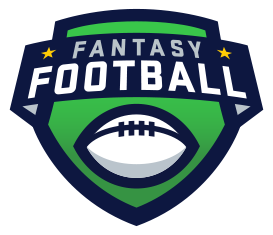
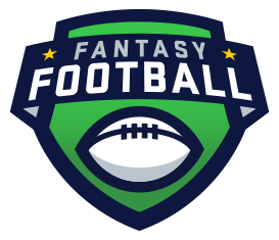
refined work section for all screen sizes.  Resized images to fit container

diff --git a/css/main.css b/css/main.css
@@ -37,11 +37,6 @@
     color: #6cc644;
 }
 
-.project-picture img {
-	width: 100%;
-}
-
-
 /* Classes: */
 
 .container {
@@ -79,5 +74,44 @@
 	text-align:center;
 	display: inline-block;
 }
+
+/* projects section stuff */
+.project-picture, .project-title,
+.project-description,.project-link {
+	transition: 0.3s ease-in-out;
+}
+
+.project-box{
+	height: 15em;
+	width: calc(33% - 2px);
+	border: 1px solid grey;
+	overflow:hidden;
+	display:inline-block;
+}
+
+.project-picture{
+	text-align:center;
+}
+
+.project-title {
+	text-align:center;
+	font-size: 2em;
+}
+
+.project-link {
+	text-align:center;
+}
+.project-link a {
+	color: black;
+}
+
+.project-box:hover .project-picture{
+	margin-top: -15em;
+}
+
+
+
+
+/* end projects section stuff */
 
 /*Id's: */

diff --git a/css/large-screen.css b/css/large-screen.css
@@ -51,38 +51,6 @@ label[for=nav-trigger]{
 	margin-left: 1em;
 }
 
-/* projects section stuff */
-.project-picture, .project-title,
-.project-description,.project-link {
-	transition: 0.3s ease-in-out;
-}
-
-.project-box{
-	height: 15em;
-	width: 33%;
-	border: 1px solid grey;
-	overflow:hidden;
-	display:inline-block;
-}
-
-.project-title {
-	text-align:center;
-	font-size: 2em;
-}
-
-.project-link {
-	text-align:center;
-}
-.project-link a {
-	color: black;
-}
-
-.project-box:hover .project-picture{
-	margin-top: -12em;
-}
-
-
-/* end projects section stuff */
 .information-block h1{
 	margin-bottom:0;
 	text-decoration: underline;
@@ -139,6 +107,9 @@ label[for=nav-trigger]{
 	width: 992px;
 }
 
+.project-box {
+	width: calc(33% - 2px);
+}
 
 /*Id's: */
 

diff --git a/index.html b/index.html
@@ -106,7 +106,9 @@
 						<a href="http://www.github.com" class="zocial-github"></a>
 					</div>
 				</div>
-				To look at all of my repos, <a href="https://github.com/Possardt">click here</a>.
+				<p>To look at all of my repos, 
+					<a href="https://github.com/Possardt">click here</a>.
+				</p>
 			</div>
 		</div>
 		<div class='row'>

diff --git a/css/extra-small-screen.css b/css/extra-small-screen.css
@@ -139,6 +139,12 @@ label[for="nav-trigger"] {
 	display:none;
 }
 
+.project-box {
+	width: calc(100% - 2em);
+	margin-left: 1em;
+	margin-right: 1em;
+}
+
 /*Id's: */
 
 #headshot {

diff --git a/css/small-screen.css b/css/small-screen.css
@@ -94,6 +94,11 @@ label[for=nav-trigger]{
 	background-color: rgba(104, 106, 109, 0.98);
 }
 
+.project-box {
+	width: calc(50% - 3px);
+}
+
+
 /*Id's: */
 
 #headshot {

diff --git a/css/medium-screen.css b/css/medium-screen.css
@@ -99,6 +99,10 @@ label[for=nav-trigger]{
 	background-color: rgba(104, 106, 109, 0.98);
 }
 
+.project-box {
+	width: calc(50% - 3px);
+}
+
 /*Id's: */
 
 #headshot {
